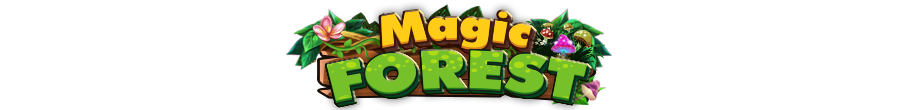
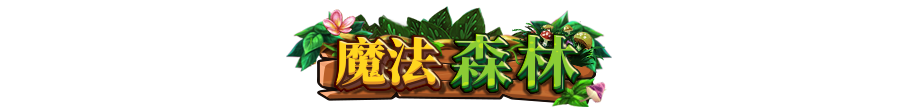
fix: update game name and effect-big-win

Changed region(s): [[0.307, 0.0545, 0.6754, 1.0]]

diff --git a/assets/games/magic-forest/i18n/texts/game-64-zh_cn.ts b/assets/games/magic-forest/i18n/texts/game-64-zh_cn.ts
@@ -2,7 +2,7 @@ import { reloadLanguageData } from "../../../../common/i18n/CustomLanguageData";
 
 export const phrases = {
     gameNames: {
-        64: "Magic Forest"
+        64: "魔法森林"
     }
 };
 

diff --git a/assets/games/magic-forest/i18n/texts/game-64-zh_tw.ts b/assets/games/magic-forest/i18n/texts/game-64-zh_tw.ts
@@ -2,7 +2,7 @@ import { reloadLanguageData } from "../../../../common/i18n/CustomLanguageData";
 
 export const phrases = {
     gameNames: {
-        64: "Magic Forest"
+        64: "魔法森林"
     }
 };
 
